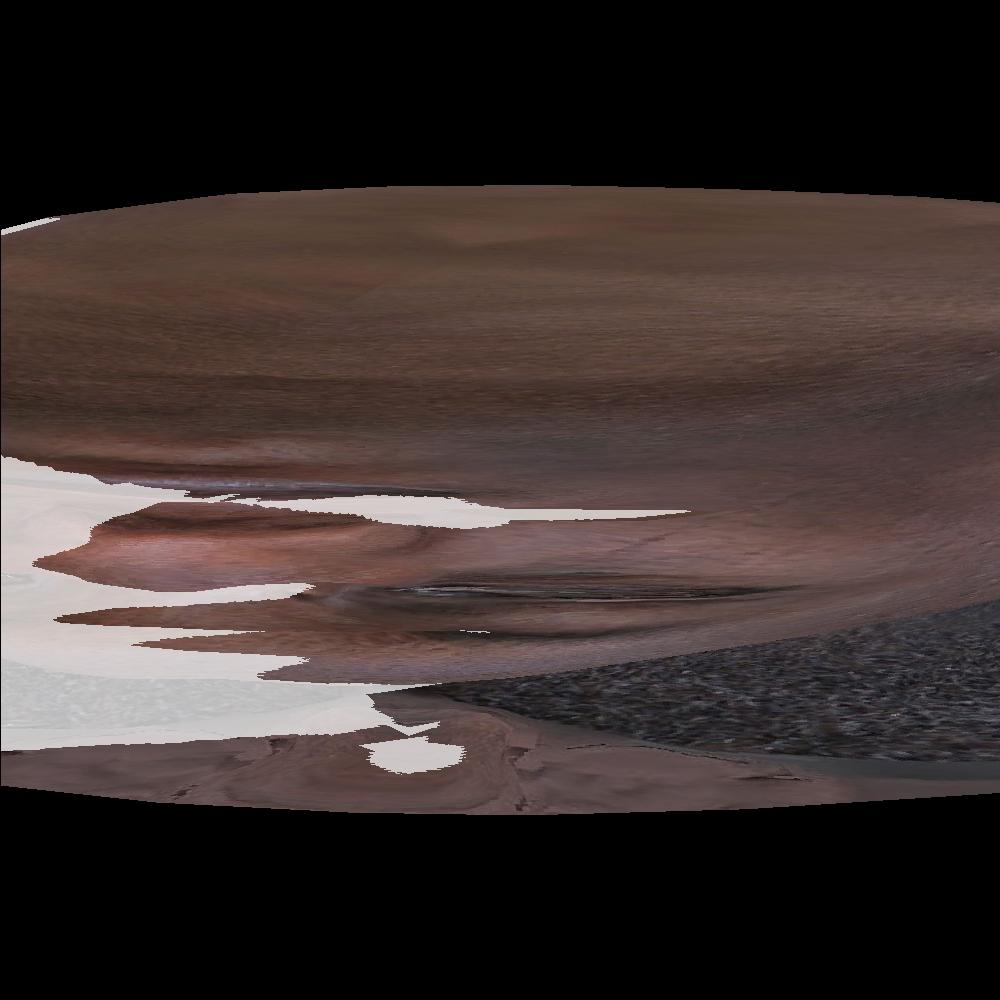
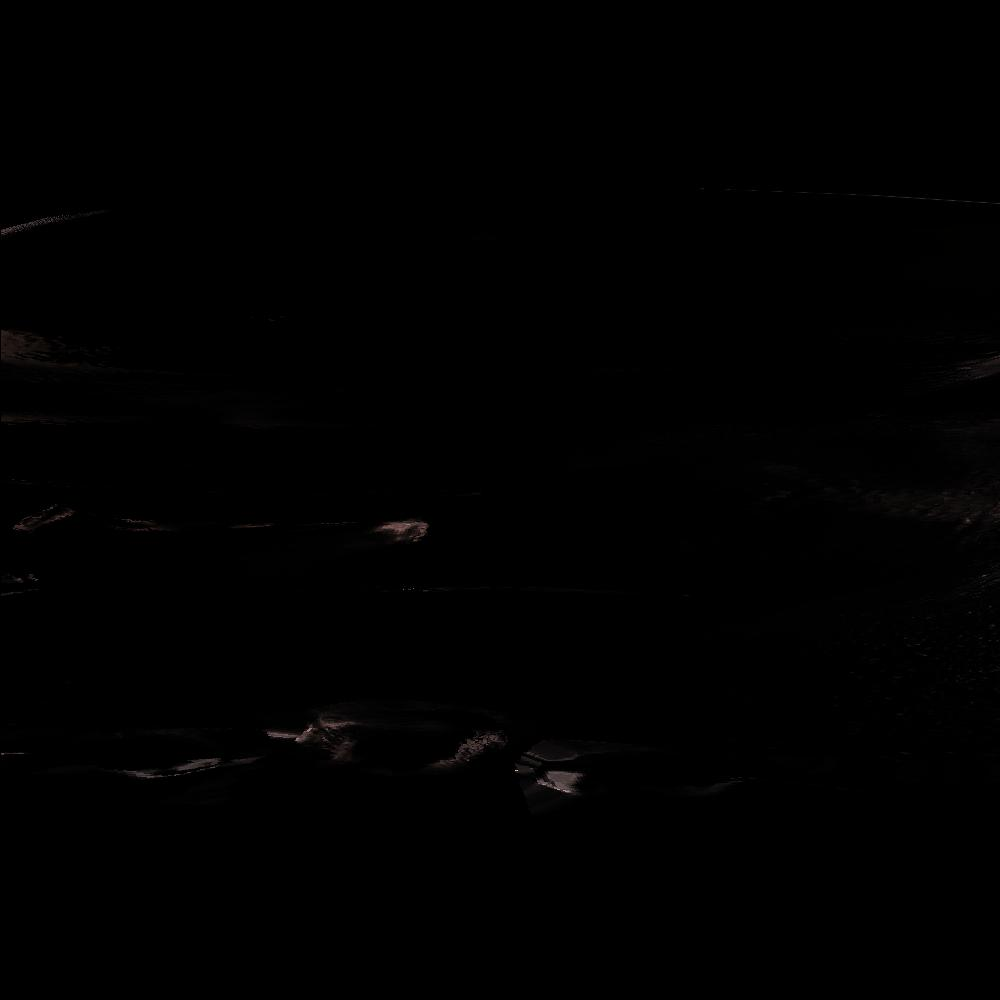
normals file

diff --git a/src/com/vssekorin/thrdimviz/FirstShader.java b/src/com/vssekorin/thrdimviz/FirstShader.java
@@ -1,5 +1,7 @@
 package com.vssekorin.thrdimviz;
 
+import java.util.Arrays;
+
 import static com.vssekorin.thrdimviz.Geometry.*;
 import static com.vssekorin.thrdimviz.Param.*;
 
@@ -34,29 +36,39 @@ public final class FirstShader implements Shader {
     }
 
     @Override
-    public Object[] fragment(final float[] a, final int b) {
+    public Object[] fragment(float[] a, int b) {
         Object[] result = new Object[2];
+        float[] vUV = mult(uv, a);
+        float[] n = normalize(lowLength(mult(Mit, upLength(getNormal(vUV), 4, 1)), 3));
+        float[] l = normalize(lowLength(mult(M, upLength(ligthDir, 4, 1)), 3));
+        float[] r = normalize(sub(mult(n, dot(n, l) * 2.0f), l));
+        float rz = Math.max(r[2], 0.0f);
+        float d = Math.max(dot(n, l), 0.0f);
+        int[] color = getComponents(Application.texture.getRGB((int) (vUV[0] * 2844), (int) (vUV[1] * 2844)));
+        for (int i = 0; i < 3; i++) {
+            color[i] = Math.min(255, (int)(color[i] * (d + 0.6f * rz)));
+        }
         result[0] = false;
-        float[] sbp = Geometry.mult(Mshadow, upLength(Geometry.mult(tri, a), 4, 1));
-        sbp = div(sbp, sbp[3]);
-        int idx = (int)(sbp[0] + 0.5f) + (int) (sbp[1] + 0.5f) * size;
-        float shadow = 0.3f + 0.7f * (bufferShadow[idx] < sbp[2] + 123.45 ? 1 : 0);
-        float[] vUV = Geometry.mult(uv, a);
-        int rgb = Application.texture.getRGB((int) (vUV[0] * 2844), (int) (vUV[1] * 2844));
-        int[] components = getComponents(rgb);
-        result[1] = toColor((int)(components[0] * shadow), (int)(components[1] * shadow), (int)(components[2] * shadow));
+        result[1] = toColor(color[0], color[1], color[2]);
         return result;
     }
 
-    private int[] getComponents(int color) {
-        int[] components = new int[3];
-        components[2] = color % 256;
-        components[1] = (color / 256) % 256;
-        components[0] = (color /256 / 256) % 256;
-        return components;
+    private float[] getNormal(float[] vuv) {
+        float[] result = new float[3];
+        int rgb = Application.normals.getRGB((int) (vuv[0] * 2844), (int) (vuv[1] * 2844));
+        int[] components = getComponents(rgb);
+        for (int i = 0; i < 3; i++) {
+            result[i] = components[i] / 255.0f * 2.0f - 1.0f;
+        }
+        return result;
+    }
+
+    private int[] getComponents(int rgb) {
+        int value = -16777216 | rgb;
+        return new int[]{ value >> 16 & 255, value >> 8 & 255, value & 255 };
     }
 
     private int toColor(int r, int g, int b) {
-        return 256 * 256 * r + 256 * g + b;
+        return 255 << 24 | (r & 255) << 16 | (g & 255) << 8 | (b & 255);
     }
 }

diff --git a/src/com/vssekorin/thrdimviz/Application.java b/src/com/vssekorin/thrdimviz/Application.java
@@ -10,15 +10,19 @@ import java.util.stream.Stream;
 
 import static com.vssekorin.thrdimviz.Geometry.*;
 import static com.vssekorin.thrdimviz.Param.*;
+
 public final class Application {
 
     public static Obj model;
 
     public static BufferedImage texture;
 
+    public static BufferedImage normals;
+
     public static void main(String[] args) throws IOException {
         model = loadObj();
         texture = ImageIO.read(new File("texture.jpg"));
+        normals = ImageIO.read(new File("normals.jpg"));
         for (int i = 0; i < size * size; i++) {
             bufferZ[i] = -Float.MAX_VALUE;
             bufferShadow[i] = -Float.MAX_VALUE;
@@ -79,8 +83,8 @@ public final class Application {
         lookat(eye, center, up);
         viewport(size / 8, size / 8, size * 3 / 4, size * 3 / 4);
         projection(-1.f / norma(sub(eye, center)));
-        float[][] mit = transpose(inverse(Geometry.mult(mxProjection, mxModelView)));
-        float[][] mshadow = Geometry.mult(M, inverse(mult(mxViewport, mxProjection, mxModelView)));
+        float[][] mit = transpose(inverse(mult(mxProjection, mxModelView)));// or inverse(transpose(...))
+        float[][] mshadow = mult(M, inverse(mult(mxViewport, mxProjection, mxModelView)));
         final Shader shader = new FirstShader(mxModelView, mit, mshadow);
         float[][] coords = new float[3][4];
         for (int i = 0; i < model.f.size(); i++) {

diff --git a/src/com/vssekorin/thrdimviz/Geometry.java b/src/com/vssekorin/thrdimviz/Geometry.java
@@ -21,6 +21,22 @@ public final class Geometry {
         return result;
     }
 
+    public static float[] mult(float[] vector, float number) {
+        float[] result = new float[vector.length];
+        for (int i = 0; i < vector.length; i++) {
+            result[i] = vector[i] * number;
+        }
+        return result;
+    }
+
+    public static float dot(float[] first, float[] second) {
+        float result = 0;
+        for (int i = 0; i < first.length; i++) {
+            result += first[i] * second[i];
+        }
+        return result;
+    }
+
     public static float[] upLength(float[] vector, int newLength, float value) {
         final float[] result = new float[newLength];
         for (int i = 0; i < newLength; i++) {
@@ -30,7 +46,7 @@ public final class Geometry {
     }
 
     public static float[] cross(float[] first, float[] second) {
-        return new float[]{
+        return new float[] {
             first[1] * second[2] - first[2] * second[1],
             first[2] * second[0] - first[0] * second[2],
             first[0] * second[1] - first[1] * second[0]

diff --git a/src/com/vssekorin/thrdimviz/SecondShader.java b/src/com/vssekorin/thrdimviz/SecondShader.java
@@ -31,6 +31,6 @@ public final class SecondShader implements Shader {
     }
 
     private int toColor(int r, int g, int b) {
-        return 256 * 256 * r + 256 * g + b;
+        return 255 << 24 | (r & 255) << 16 | (g & 255) << 8 | (b & 255);
     }
 }
